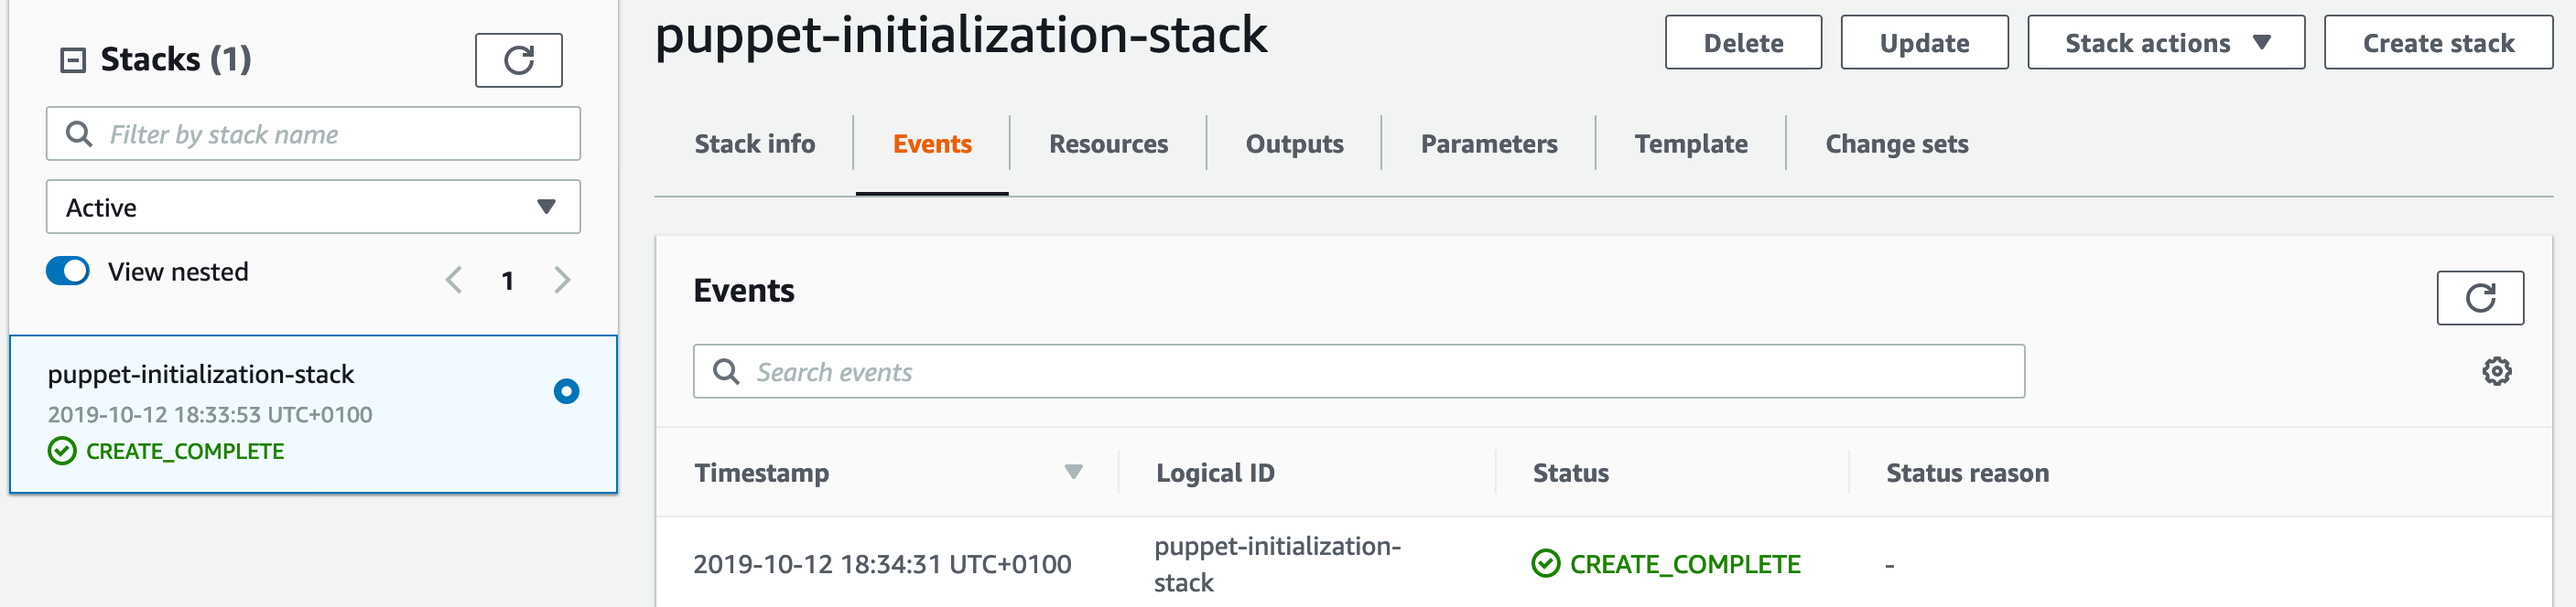
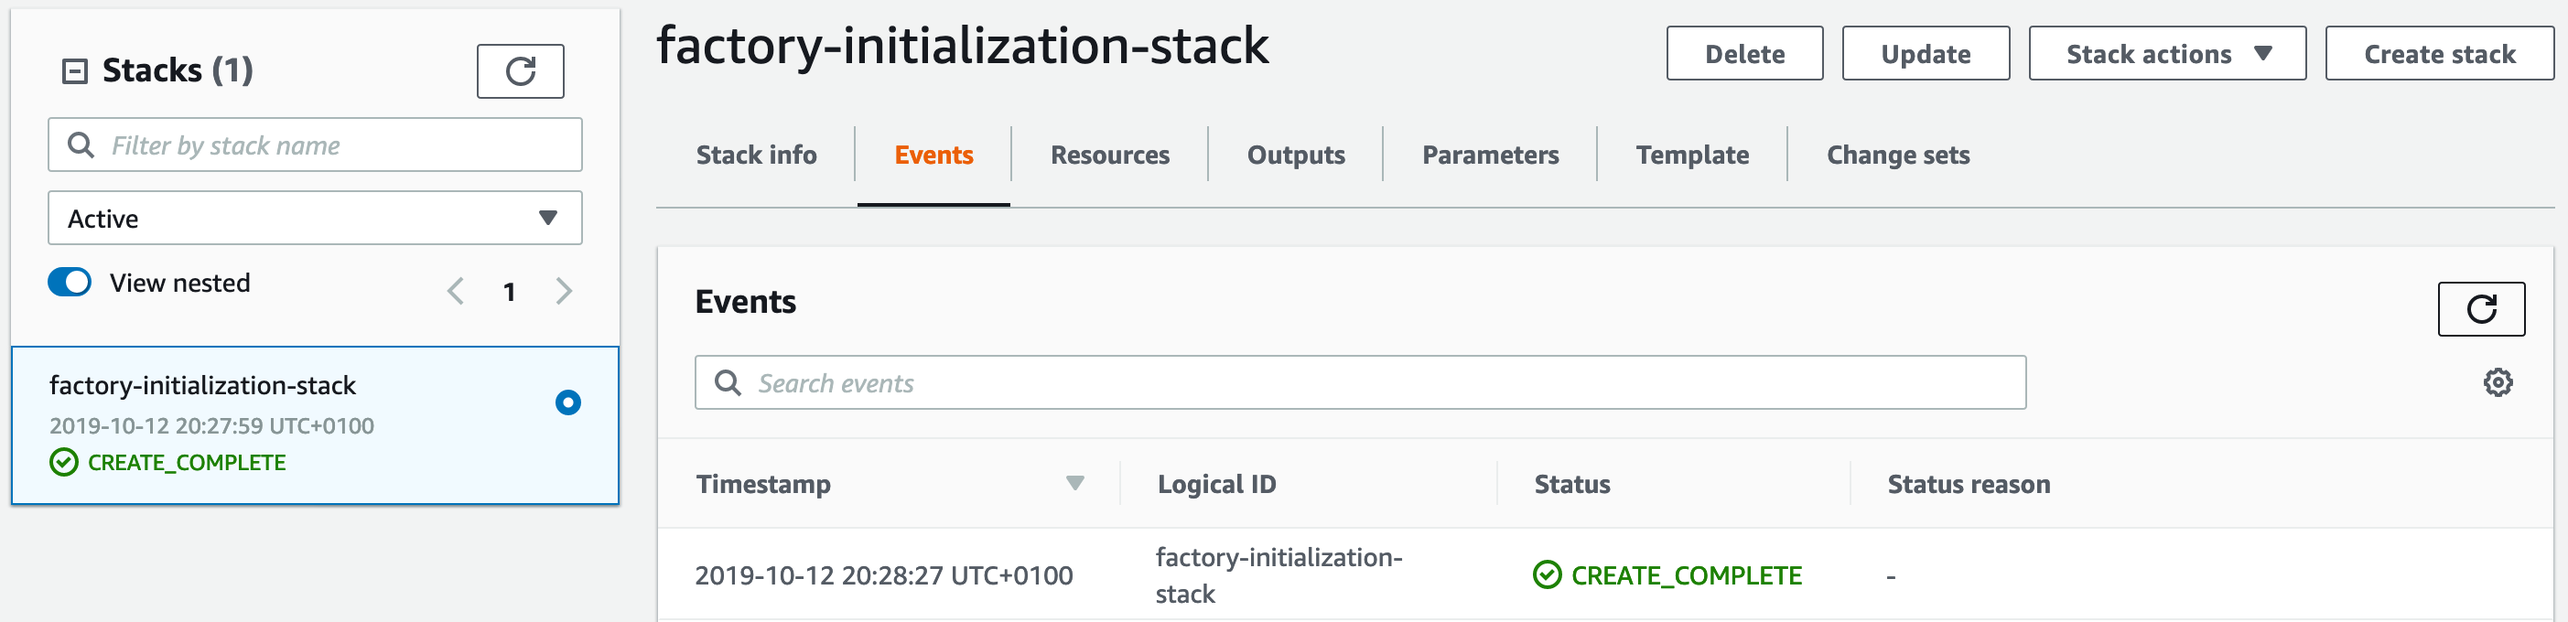
Fixed up Factory install and started Puppet install

diff --git a/workshop/content/50-revinvent2019/300-install-puppet/200-installing.md b/workshop/content/50-revinvent2019/300-install-puppet/200-installing.md
@@ -2,6 +2,7 @@
 title = "Install Puppet Process"
 weight = 200
 +++
+
 ---
 
 
@@ -9,7 +10,7 @@ weight = 200
 
 - Select the CloudFormation Service.
 
-{{< figure src="/select_cloudformation.png" height="275" width="800">}}
+{{< figure src="/select_cloudformation.png" height="450" width="900">}}
 
 {{% notice tip %}}
 Confirm you are in the eu-west-1 region.
@@ -19,23 +20,26 @@ Confirm you are in the eu-west-1 region.
 
 - Select 'Create Stack'
 
-{{< figure src="/create_stack.png" height="275" width="800">}}
+{{< figure src="/create_stack_puppet.png" height="200" width="900">}}
+
+{{% notice note %}}
+Note that the Factory Initialization Stack has been deployed. If yours has not refer to 'Install Factory Process'
+{{% /notice %}}
 
 ### Select the pre-configured CloudFormation Template
 Service Catalog Puppet can be installed via a pre-created CloudFormation Template stored in S3 under the following URL:
-> https://service-catalog-tools.s3.eu-west-2.amazonaws.com/puppet/0.37.2/servicecatalog-puppet-initialiser.template.yaml
+> https://service-catalog-tools.s3.eu-west-2.amazonaws.com/factory/latest/servicecatalog-puppet-initialiser.template.yaml
 
 - Paste this URL under 'Amazon S3 URL': 
 - Hit Next
 
-{{< figure src="/specify_template.png" height="400" width="900">}}
+{{< figure src="/specify_template_puppet.png" height="400" width="900">}}
 
 ### Specify Stack Details
 
 - Specify the Stack details as follows:
-    - **Stack Name:** sc-puppet-install
-    - **Enable Regions:** eu-west-1,eu-west-2
-    - **Version:** 0.25.0
+    - **Stack Name:** puppet-initialization-stack
+    - **Enable Regions:** eu-west-1
 - Hit Next
 
 {{< figure src="/stack_details.png" height="400" width="900">}}
@@ -47,4 +51,13 @@ Service Catalog Puppet can be installed via a pre-created CloudFormation Templat
 - Acknowledge that the Stack will create an IAM Role
 - Hit 'Create Stack'
 
-{{< figure src="/confirm_create_stack.png" height="250" width="900">}}
+{{< figure src="/acknowledge_create.png" height="250" width="900">}}
+
+- You will now see the Stack Status as 'CREATE_IN_PROGRESS'
+
+{{< figure src="/create_in_progress_factory.png" height="250" width="900">}}
+
+- Wait for the Stack Status to go to CREATE_COMPLETE
+
+{{< figure src="/create_complete_factory.png" height="250" width="900">}}
+

diff --git a/workshop/content/50-revinvent2019/200-install-factory/200-installing.md b/workshop/content/50-revinvent2019/200-install-factory/200-installing.md
@@ -10,7 +10,7 @@ weight = 200
 
 - Select the CloudFormation Service.
 
-{{< figure src="/select_cloudformation.png" height="300" width="900">}}
+{{< figure src="/select_cloudformation.png" height="450" width="900">}}
 
 {{% notice tip %}}
 Confirm you are in the eu-west-1 region.
@@ -23,8 +23,8 @@ Confirm you are in the eu-west-1 region.
 {{< figure src="/create_stack.png" height="300" width="900">}}
 
 ### Select the pre-configured CloudFormation Template
-Service Catalog Puppet can be installed via a pre-created CloudFormation Template stored in S3 under the following URL:
-> https://service-catalog-tools.s3.eu-west-2.amazonaws.com/factory/0.25.0/servicecatalog-factory-initialiser.template.yaml
+Service Catalog Factory can be installed via a pre-created CloudFormation Template stored in S3 under the following URL:
+> https://service-catalog-tools.s3.eu-west-2.amazonaws.com/factory/latest/servicecatalog-factory-initialiser.template.yaml
 
 - Paste this URL under 'Amazon S3 URL': 
 - Hit Next
@@ -34,12 +34,11 @@ Service Catalog Puppet can be installed via a pre-created CloudFormation Templat
 ### Specify Stack Details
 
 - Specify the Stack details as follows:
-    - **Stack Name:** puppet-initialization-stack
+    - **Stack Name:** factory-initialization-stack
     - **Enable Regions:** eu-west-1
-    - **Version:** 0.25.0
 - Hit Next
 
-{{< figure src="/stack_details.png" height="400" width="900">}}
+{{< figure src="/stack_details_factory.png" height="400" width="900">}}
 
 ### Create the Stack
 
@@ -52,9 +51,9 @@ Service Catalog Puppet can be installed via a pre-created CloudFormation Templat
 
 - You will now see the Stack Status as 'CREATE_IN_PROGRESS'
 
-{{< figure src="/create_in_progress_factory.png" height="250" width="900">}}
+{{< figure src="/create_in_progress_factory.png" height="200" width="900">}}
 
 - Wait for the Stack Status to go to CREATE_COMPLETE
 
-{{< figure src="/create_complete_factory.png" height="250" width="900">}}
+{{< figure src="/create_complete_factory.png" height="200" width="900">}}
 
